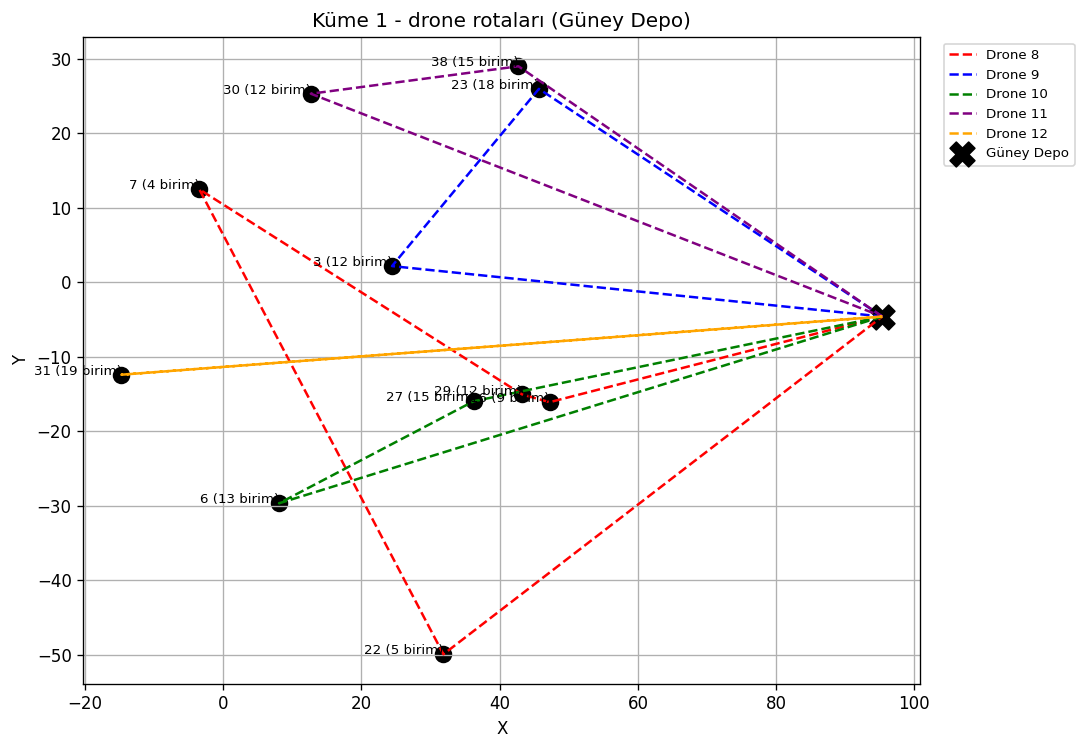
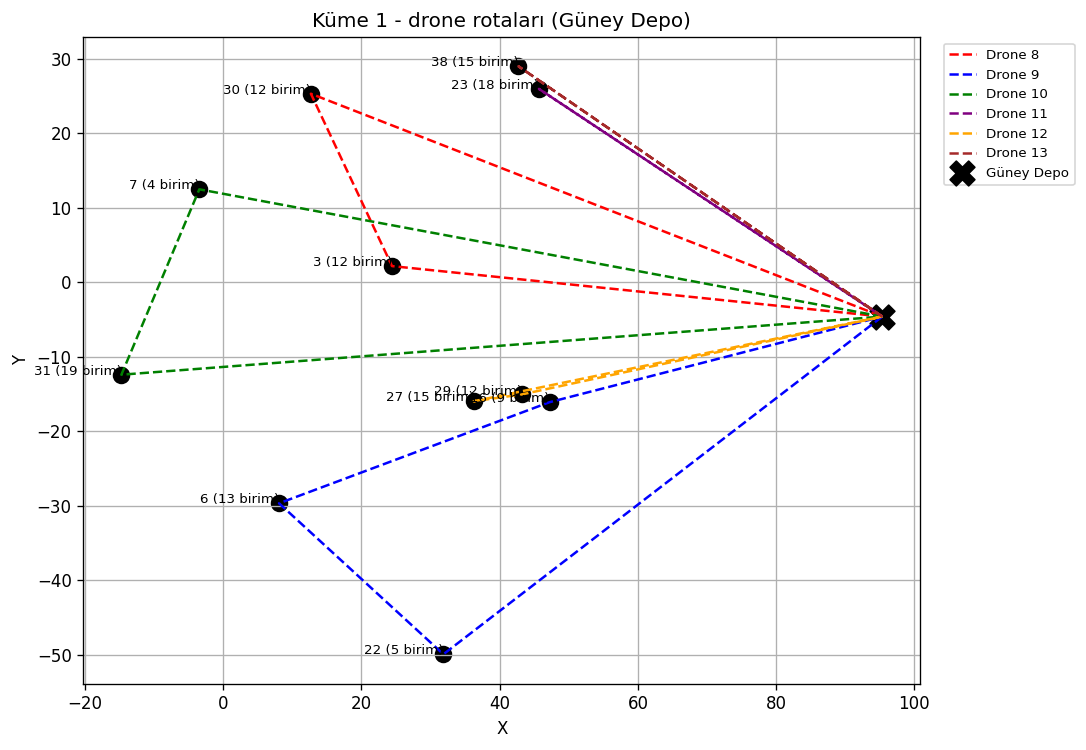
Tur kurmayi Clarke-Wright tasarruf yontemine cevir
Onceki hali "kapasiteye sigan en yakin noktayi al" seklindeydi. Bu yontem
turlarda kapasite bosluklari birakiyor, gereginden fazla tur aciliyor ve
her fazladan tur iki depo bacagi ekliyor. Dar kapasitelerde sonuc tablo
sirasiyla gitmekten bile kotu cikiyordu: --kume-sayisi 7 --kapasite 20
ile kazanc yuzde -5,9 idi.

Clarke-Wright tasarruf yontemi hem daha az tur hem daha kisa yol veriyor.
Denenen butun ayarlarda kazanc artiya gecti:

  5 kume / 30 kapasite : 3801,3 -> 3477,0
  6 kume / 30 kapasite : 3685,4 -> 3408,1
  5 kume / 20 kapasite : 5396,7 -> 4904,1
  7 kume / 20 kapasite : 5562,4 -> 5071,3
  4 kume / 40 kapasite : 3319,9 -> 2711,5

Ayrica kapasiteden buyuk talebi olan noktalar artik tur kurmaya
baslamadan once yakalaniyor ve hata mesajinda adlari yaziliyor.

README'nin rota kurma bolumu, sayilar ve kaynakca guncellendi.

diff --git a/drone_rota.py b/drone_rota.py
@@ -10,8 +10,8 @@ Adımlar:
 1. İhtiyaç noktaları arası mesafe matrisi ve talep tablosu okunuyor.
 2. Elbow yöntemiyle küme sayısına bakılıp K-Means ile noktalar kümeleniyor.
 3. Her küme, kendisine ortalama olarak daha yakın olan depoya bağlanıyor.
-4. Küme içindeki noktalar drone kapasitesine sığacak turlara bölünüyor;
-   turların ziyaret sırası en yakın komşu ile kurulup 2-opt ile iyileştiriliyor.
+4. Küme içindeki noktalar Clarke-Wright tasarruf yöntemiyle drone kapasitesine
+   sığacak turlara bölünüyor; her turun ziyaret sırası 2-opt ile iyileştiriliyor.
 5. Grafikler ve rota listesi cikti/ klasörüne yazılıyor.
 
     python drone_rota.py
@@ -150,35 +150,68 @@ def iki_opt(tur, depo, mesafe):
 def turlari_kur(noktalar, talep, depo, mesafe, kapasite):
     """Küme noktalarını drone kapasitesine sığan turlara böler.
 
-    Her tur depodan başlıyor; kapasiteye sığan noktalar arasından en yakını
-    seçiliyor, sığan nokta kalmayınca tur depoya dönüyor. Sonrasında tur
-    2-opt ile iyileştiriliyor.
+    Clarke-Wright tasarruf yöntemi kullanılıyor. Başlangıçta her nokta kendi
+    başına bir tur; iki turu birleştirmenin kazandırdığı yol
+
+        tasarruf(i, j) = d(depo, i) + d(depo, j) - d(i, j)
+
+    ile hesaplanıp en çok kazandıran birleştirmeden başlanıyor. Kapasiteyi
+    aşmayan ve iki turun uçlarını birbirine bağlayan birleştirmeler kabul
+    ediliyor. Sonunda her tur ayrıca 2-opt ile iyileştiriliyor.
+
+    Sadece "en yakın noktayı al" demek yetmiyordu: kapasiteye sığan en yakın
+    nokta seçilince turlarda küçük boşluklar kalıyor ve gereksiz yere fazladan
+    tur açılıyordu. Tasarruf yöntemi hem daha az tur hem daha kısa yol çıkarıyor.
     """
-    kalan = list(noktalar)
-    turlar = []
+    buyuk = [n for n in noktalar if talep[n] > kapasite]
+    if buyuk:
+        raise SystemExit(
+            f"Tek basina kapasiteyi asan nokta var (kapasite {kapasite}): {buyuk}"
+        )
 
-    while kalan:
-        tur = []
-        yuk = 0
-        simdiki = depo
+    turlar = {no: [nokta] for no, nokta in enumerate(noktalar)}
+    yukler = {no: talep[nokta] for no, nokta in enumerate(noktalar)}
+    tur_no = {nokta: no for no, nokta in enumerate(noktalar)}
 
-        while True:
-            adaylar = [n for n in kalan if yuk + talep[n] <= kapasite]
-            if not adaylar:
-                break
-            sonraki = min(adaylar, key=lambda n: mesafe.at[simdiki, n])
-            tur.append(sonraki)
-            yuk += talep[sonraki]
-            kalan.remove(sonraki)
-            simdiki = sonraki
-
-        if not tur:
-            raise SystemExit(
-                f"Tek basina kapasiteyi asan nokta var, kapasite: {kapasite}"
+    tasarruflar = []
+    for a in range(len(noktalar)):
+        for b in range(a + 1, len(noktalar)):
+            i, j = noktalar[a], noktalar[b]
+            tasarruflar.append(
+                (mesafe.at[depo, i] + mesafe.at[depo, j] - mesafe.at[i, j], i, j)
             )
-        turlar.append(iki_opt(tur, depo, mesafe))
+    tasarruflar.sort(key=lambda satir: -satir[0])
 
-    return turlar
+    for tasarruf, i, j in tasarruflar:
+        if tasarruf <= 0:
+            break  # birlestirmek yolu uzatiyorsa gerisine bakmaya gerek yok
+
+        ilk_no, ikinci_no = tur_no[i], tur_no[j]
+        if ilk_no == ikinci_no:
+            continue
+        if yukler[ilk_no] + yukler[ikinci_no] > kapasite:
+            continue
+
+        ilk, ikinci = turlar[ilk_no], turlar[ikinci_no]
+
+        # i birinci turun sonunda, j ikinci turun basinda olmali; mesafeler
+        # simetrik oldugu icin gerekirse turlari ters cevirebiliyoruz.
+        if ilk[0] == i:
+            ilk = ilk[::-1]
+        elif ilk[-1] != i:
+            continue
+        if ikinci[-1] == j:
+            ikinci = ikinci[::-1]
+        elif ikinci[0] != j:
+            continue
+
+        turlar[ilk_no] = ilk + ikinci
+        yukler[ilk_no] += yukler[ikinci_no]
+        for nokta in ikinci:
+            tur_no[nokta] = ilk_no
+        del turlar[ikinci_no], yukler[ikinci_no]
+
+    return [iki_opt(tur, depo, mesafe) for tur in turlar.values()]
 
 
 def sirali_turlar(noktalar, talep, kapasite):

diff --git a/README.md b/README.md
@@ -43,7 +43,10 @@ doğrudan dosyaya kaydediliyor.
 - `yardim_talepleri.xlsx` — her noktanın tıbbi malzeme ve yiyecek talebi. Toplam
   talep 522 birim; en küçük nokta 3, en büyüğü 19 birim istiyor.
 
-522 birim ve 30 birimlik kapasiteyle en iyi ihtimalle 18 drone turu gerekiyor.
+522 birim ve 30 birimlik kapasiteyle en iyi ihtimalle 18 drone turu gerekiyor;
+bu çalışmada 22 tur çıkıyor. `--kapasite` en büyük nokta talebinin, yani 19
+birimin altına indirilirse o nokta hiçbir drona sığmadığı için betik hata verip
+duruyor.
 
 ## Kümeleme
 
@@ -76,25 +79,44 @@ Güney Depo'ya düştü.
 ## Rota kurma
 
 Bir kümedeki toplam talep tek bir drona sığmadığı için küme, kapasiteye göre
-turlara bölünüyor. Her tur depodan başlıyor, kalan noktalar arasından kapasiteye
-sığan en yakını seçiliyor, sığan nokta kalmayınca depoya dönülüyor. Tur
-tamamlandıktan sonra ziyaret sırası 2-opt ile iyileştiriliyor: turdaki iki kenar
-seçilip aradaki parça ters çevriliyor, bu değişiklik turu kısaltıyorsa kabul
-ediliyor ve kısaltan bir hamle kalmayana kadar sürüyor.
+turlara bölünüyor. Bölme işi Clarke-Wright tasarruf yöntemiyle yapılıyor:
+başlangıçta her nokta tek başına bir tur, yani depodan çıkıp o noktaya gidip
+dönen bir drone. İki turu birleştirmenin kazandırdığı yol
+
+```
+tasarruf(i, j) = mesafe(depo, i) + mesafe(depo, j) - mesafe(i, j)
+```
+
+ile hesaplanıyor, bütün nokta çiftleri bu değere göre büyükten küçüğe
+sıralanıyor ve en çok kazandıran birleştirmeden başlanıyor. Bir birleştirme,
+iki turun toplam yükü kapasiteyi aşmıyorsa ve iki nokta turların uçlarındaysa
+kabul ediliyor. Tasarruf sıfırın altına düşünce duruluyor; orada depoya uğrayıp
+dönmek iki noktayı doğrudan bağlamaktan kısa demek.
+
+Turlar kurulduktan sonra her turun ziyaret sırası ayrıca 2-opt ile
+iyileştiriliyor: turdaki iki kenar seçilip aradaki parça ters çevriliyor, bu
+değişiklik turu kısaltıyorsa kabul ediliyor ve kısaltan bir hamle kalmayana
+kadar sürüyor.
+
+Önce daha basit bir yol denendi: her tur depodan başlasın, kalan noktalar
+arasından kapasiteye sığan en yakını seçilsin, sığan nokta kalmayınca depoya
+dönülsün. Bu yöntem turlarda küçük kapasite boşlukları bırakıyor, dolayısıyla
+gereğinden fazla tur açılıyor ve her fazladan tur iki depo bacağı ekliyor. Dar
+kapasitelerde sonuç sıralı gidişten bile kötü çıkabiliyordu, o yüzden bırakıldı.
 
 ![Küme 0 drone rotaları](cikti/kume_0_rota.png)
 
-Son çalıştırmada 45 nokta 21 drone turuna bölündü, toplam mesafe 3801,3 çıktı.
-Aynı noktalar tablodaki sırayla kapasiteye bölünüp o sırayla gezilseydi toplam
-mesafe 4242,5 olacaktı; yani sıralama yüzde 10,4 kazandırıyor. Betik bu iki
-sayıyı her çalıştırmada birlikte yazdırıyor.
+Varsayılan ayarlarla (5 küme, 30 birim kapasite) 45 nokta 22 drone turuna
+bölündü, toplam mesafe 3477,0 çıktı. Aynı noktalar tablodaki sırayla kapasiteye
+bölünüp o sırayla gezilseydi toplam mesafe 4242,5 olacaktı; yani yüzde 18,0
+kazanç var. Betik bu iki sayıyı her çalıştırmada birlikte yazdırıyor.
 
 Sonuç `cikti/drone_rotalari.csv` dosyasına yazılıyor. Sütunlar: küme numarası,
 drone numarası, çıkış deposu, taşınan yük, tur mesafesi ve durak sırası.
 
 ```
 Kume,Drone,Depo,Yuk,Mesafe,Rota
-0,1,Kuzey Depo,28,131.31,Kuzey Depo -> Nokta 1 (12 birim) -> Nokta 11 (8 birim) -> Nokta 17 (8 birim) -> Kuzey Depo
+0,3,Kuzey Depo,29,127.58,Kuzey Depo -> Nokta 8 (11 birim) -> Nokta 25 (18 birim) -> Kuzey Depo
 ```
 
 ## Neden A* yok
@@ -118,8 +140,8 @@ kondu.
 
 - Kümeleme mesafe matrisi satırları üzerinde yapılıyor. Bu, coğrafi yakınlığın
   makul bir karşılığı ama tam olarak aynı şey değil.
-- Turlar önce en yakın komşu ile kuruluyor, sonra 2-opt uygulanıyor. İkisi de
-  sezgisel; sonuç en iyi çözüm olmak zorunda değil, sadece iyi bir çözüm.
+- Turlar Clarke-Wright ile kuruluyor, sonra 2-opt uygulanıyor. İkisi de sezgisel;
+  sonuç en iyi çözüm olmak zorunda değil, sadece iyi bir çözüm.
 - Turlar küme küme kuruluyor. Farklı kümelerdeki iki komşu nokta aynı drona
   verilemiyor, bu da bazı turları gereksiz uzatıyor.
 - Drone menzili, uçuş süresi ve şarj kısıtı hesaba katılmadı; tek kısıt kapasite.
@@ -139,6 +161,7 @@ requirements.txt  matplotlib, openpyxl, pandas, scikit-learn
 
 - [Makine Öğrenmesi - Clustering Kümeleme Teknikleri](https://samed-harman.medium.com/makine-%C3%B6%C4%9Frenmesi-clustering-k%C3%BCmeleme-teknikleri-bd1b59a0a177)
 - [Elbow Method for Optimal Value of K in KMeans](https://www.geeksforgeeks.org/elbow-method-for-optimal-value-of-k-in-kmeans/)
+- [Clarke-Wright savings algorithm](https://en.wikipedia.org/wiki/Vehicle_routing_problem#Savings_algorithm)
 - [2-opt](https://en.wikipedia.org/wiki/2-opt)
 - [Multidimensional scaling](https://scikit-learn.org/stable/modules/manifold.html#multidimensional-scaling)
 
